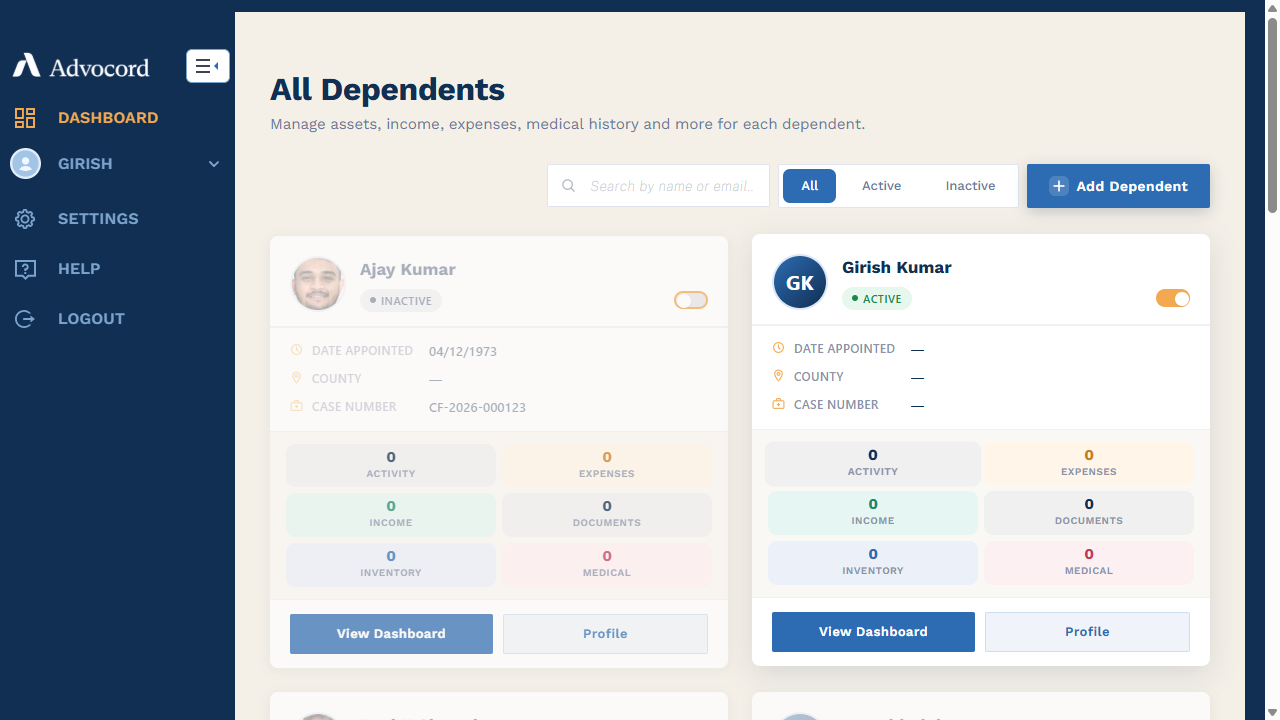
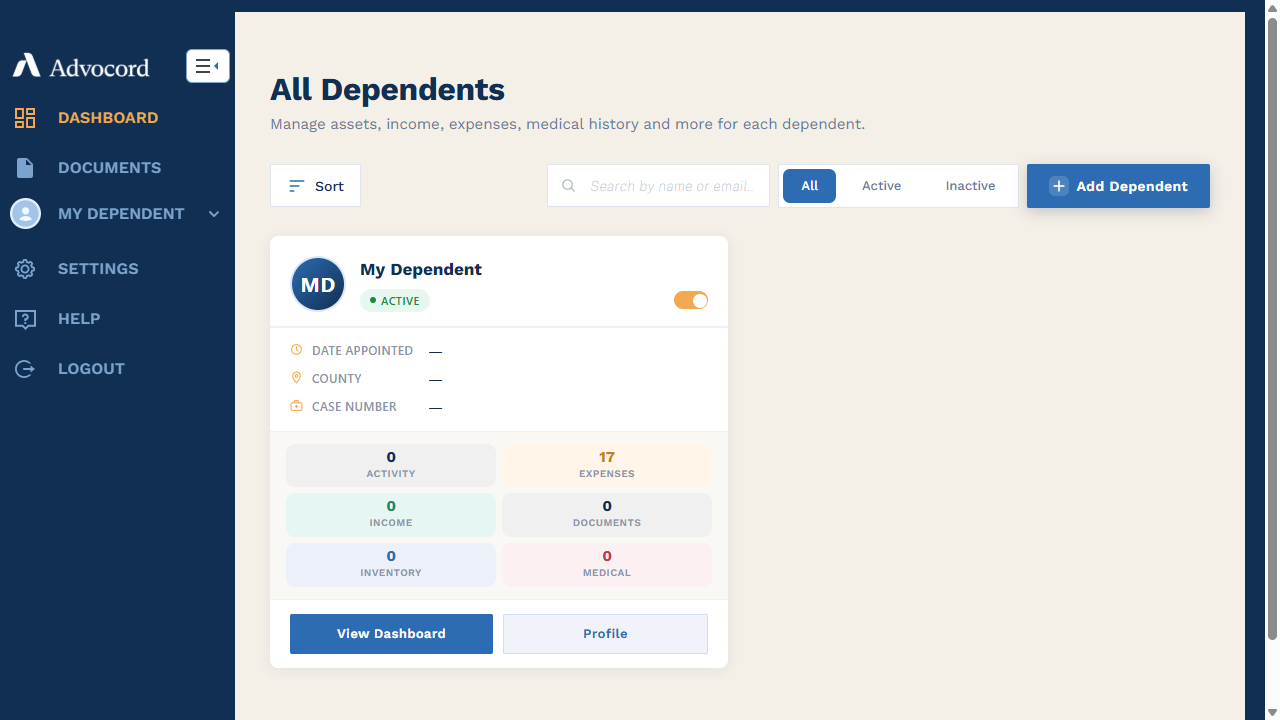
automation flow for dependent document

diff --git a/tests/test_move_to_folder.py b/tests/test_move_to_folder.py
@@ -1,0 +1,35 @@
+from playwright.sync_api import expect,Page,BrowserContext
+from conf import CONF
+
+def test_delete_folder(logged_in_context):
+    page = logged_in_context.pages[0]
+    page.locator(".depedentArrowCircle").click()
+    page.locator(".navDropdownLabel", has_text="Documents").click()
+    page.wait_for_timeout(5000)
+
+    folder = page.locator("text=eye.jpg").first
+    folder.click(button="right", force=True)
+    page.wait_for_timeout(2000)
+    page.get_by_text("Move to", exact=True).click()
+    page.wait_for_timeout(2000)
+
+    # page.get_by_text("Srishti").click()
+    # page.wait_for_timeout(2000)
+
+    destination_folder = page.locator("text=Srishti").last
+    destination_folder.scroll_into_view_if_needed()
+    destination_folder.click()
+
+    page.locator("#documentMove").click()
+    page.wait_for_timeout(5000)
+    page.screenshot(path="moveto_success.png", full_page=True)
+
+    # page.locator("#moveFileButton").click()
+    # page.wait_for_timeout(5000)
+
+    # move_btn = page.get_by_role("button", name="Move")
+
+    # expect(move_btn).to_be_visible()
+    # expect(move_btn).to_be_enabled()
+    # move_btn.click()
+

diff --git a/tests/test_create_folder.py b/tests/test_create_folder.py
@@ -1,0 +1,28 @@
+from playwright.sync_api import expect,Page,BrowserContext
+from conf import CONF
+
+def test_create_folder(logged_in_context):
+    # page = logged_in_context.new_page()
+    page = logged_in_context.pages[0]
+    page.locator(".depedentArrowCircle").click()
+    page.locator(".navDropdownLabel", has_text="Documents").click()
+    page.locator("#documentAdd").click()
+
+    popup_title = page.locator("#documentPopUpRenameTitle")
+    expect(popup_title).to_be_visible(timeout=10000)
+    expect(popup_title).to_have_text("New Folder")
+    
+    page.screenshot(path="popup_opened.png")
+
+    folder_input = page.locator("#folderName")
+    expect(folder_input).to_be_visible()
+    folder_input.fill("Srishti")
+
+    page.screenshot(path="folder_name_entered.png")
+
+    create_btn = page.locator("#documentPopUpCreate")
+    expect(create_btn).to_be_visible()
+    create_btn.click()
+    page.wait_for_timeout(3000)
+
+    page.screenshot(path="folder_created.png")

diff --git a/tests/test_dynamic_email_signup.py b/tests/test_dynamic_email_signup.py
@@ -1,0 +1,27 @@
+from playwright.sync_api import expect,Page,BrowserContext
+from conf import CONF
+
+def test_dynamic_email_signup(page):
+    email = 186
+    password = "P@55word"
+
+    page.goto(CONF.BASE_URL, timeout=60000)
+    page.locator("#JoinNowButton").click()
+
+    while True:
+        email = f"anand+{email}@bluefintechpartners.com"
+        page.locator("#userFirstName").fill("dubey")
+        page.locator("#userLastName").fill("saurabh")
+        page.locator("#userEmail").fill(email)
+        page.locator("#userPassword").fill(password)
+        page.locator("#EmailSignUpButton").click()
+
+        error_message = page.locator("text=User already exists")
+        if error_message.is_visible(timeout=3000):
+            email += 1
+            page.locator("#userEmail").clear()
+        else:
+            break
+    page.screenshot(path="dynamic_signup.png")
+
+    # page.get_by_placeholder("Enter Code").wait_for(state="visible")

diff --git a/tests/test_rename_folder.py b/tests/test_rename_folder.py
@@ -1,0 +1,24 @@
+from playwright.sync_api import expect,Page,BrowserContext
+from conf import CONF
+
+def test_delete_folder(logged_in_context):
+    page = logged_in_context.pages[0]
+    page.locator(".depedentArrowCircle").click()
+    page.locator(".navDropdownLabel", has_text="Documents").click()
+    page.wait_for_timeout(5000)
+
+    folder = page.locator("text=eye.jpg").first
+    folder.click(button="right", force=True)
+    page.wait_for_timeout(2000)
+    page.get_by_text("Rename", exact=True).click()
+    page.wait_for_timeout(2000)
+
+    rename_input = page.locator("#folderName")
+    expect(rename_input).to_be_visible()
+    rename_input.fill("eye.jpg")
+    page.wait_for_timeout(2000)
+
+    page.locator("#documentPopUpRename").click()
+    page.wait_for_timeout(5000)
+    page.screenshot(path="rename_success.png", full_page=True)
+

diff --git a/tests/test_delete_folder.py b/tests/test_delete_folder.py
@@ -1,0 +1,21 @@
+from playwright.sync_api import expect,Page,BrowserContext
+from conf import CONF
+
+def test_delete_folder(logged_in_context):
+    page = logged_in_context.pages[0]
+    page.locator(".depedentArrowCircle").click()
+    page.locator(".navDropdownLabel", has_text="Documents").click()
+    page.wait_for_timeout(5000)
+
+    folder = page.locator("text=eye.jpg").first
+    folder.click()
+    page.wait_for_timeout(2000)
+
+    page.locator("#documentDelete").click()
+    page.wait_for_timeout(2000)
+    page.locator("#DeleteButton").click()
+
+    page.wait_for_timeout(3000)
+    expect(folder).not_to_be_visible(timeout=10000)
+    page.wait_for_timeout(10000)
+    page.screenshot(path="delete_success.png", full_page=True)

diff --git a/tests/test_download_folder.py b/tests/test_download_folder.py
@@ -1,0 +1,22 @@
+from playwright.sync_api import expect,Page,BrowserContext
+from conf import CONF
+
+def test_delete_folder(logged_in_context):
+    page = logged_in_context.pages[0]
+    page.locator(".depedentArrowCircle").click()
+    page.locator(".navDropdownLabel", has_text="Documents").click()
+    page.wait_for_timeout(5000)
+
+    folder = page.locator("text=eye.jpg").first
+    folder.click()
+    page.wait_for_timeout(2000)
+
+    with page.expect_popup() as popup_info:
+        page.locator("#documentDownload").click()
+
+    new_page = popup_info.value
+    new_page.wait_for_load_state()
+    page.wait_for_timeout(5000)
+    new_page.screenshot(path="download_page.png", full_page=True)
+
+

diff --git a/tests/test_login.py b/tests/test_login.py
@@ -2,5 +2,15 @@ from playwright.sync_api import expect,Page,BrowserContext
 from conf import CONF
 
 def test_check_loging(logged_in_context):
-    page = logged_in_context.new_page()
-    page.goto(CONF.BASE_URL)
+    page = logged_in_context
+    # page.goto(CONF.BASE_URL)
+
+
+# def test_check_loging(logged_in_context):
+#     page = logged_in_context.pages[0]
+#     page.wait_for_timeout(5000)
+#     subscribe_btn = page.locator("#quotaLimitReached")
+#     expect(subscribe_btn).to_be_visible(timeout=10000)
+#     subscribe_btn.click()
+#     # page.wait_for_url("**/AdvocateProfileMyAccount")
+#     page.screenshot(path="logged_in.png")

diff --git a/tests/test_upload_file.py b/tests/test_upload_file.py
@@ -1,0 +1,14 @@
+from playwright.sync_api import expect,Page,BrowserContext
+from conf import CONF
+
+def test_create_folder(logged_in_context):
+    page = logged_in_context.pages[0]
+    page.locator(".depedentArrowCircle").click()
+    page.locator(".navDropdownLabel", has_text="Documents").click()
+
+    page.locator("#fileUploadModal").set_input_files(
+        r"C:\Users\ranja\Downloads\eye.jpg"
+    )
+    page.wait_for_timeout(10000)
+    page.screenshot(path="upload_success.png", full_page=True)
+

diff --git a/conftest.py b/conftest.py
@@ -11,6 +11,12 @@ def logged_in_context(browser: Browser) -> BrowserContext:
     page.get_by_placeholder("Password").fill(CONF.PASSWORD)
     page.get_by_role("button", name="Log In").click()
     page.wait_for_load_state("networkidle")
+    page.wait_for_timeout(5000)
+
+    # subscribe_btn = page.locator("#quotaLimitReached")
+    # expect(subscribe_btn).to_be_visible(timeout=10000)
+    # subscribe_btn.click()
+
     page.screenshot(path="logged_in.png")
 
     yield context

diff --git a/conf.py b/conf.py
@@ -1,4 +1,4 @@
 class CONF:
     BASE_URL = f"https://dev.accountabilitytech.com/"
-    EMAIL = f"girish+123@bluefintechpartners.com"
+    EMAIL = f"girish+167@bluefintechpartners.com"
     PASSWORD = f"P@55word"
